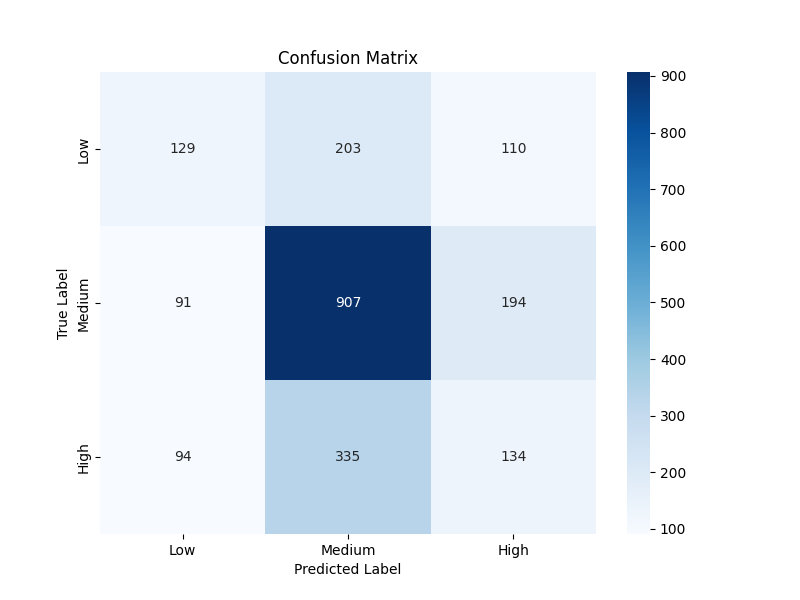
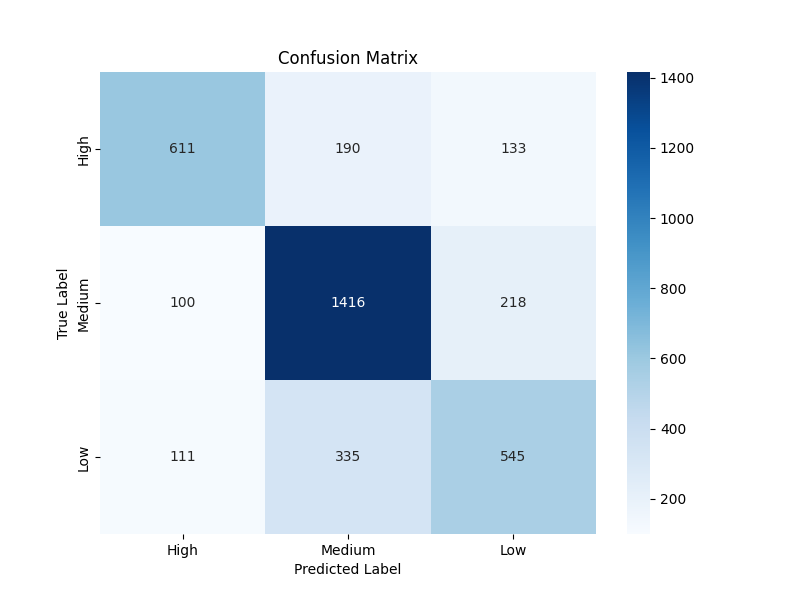
Fixed the model performance by using the raw csv for model training instead of processed

diff --git a/Main.py b/Main.py
@@ -23,13 +23,15 @@ import DecisionTree # TODO WHY IMPORT NOT WORKING
 
 #----------------------------------------------------------------------------------------------------------------------------------------
 
-df = pd.read_csv('Dataset/cox-violent-parsed_filt_processed.csv')
+#df = pd.read_csv('Dataset/cox-violent-parsed_filt_processed.csv')
+df = pd.read_csv('Dataset/cox-violent-parsed_filt.csv')
 df = df.dropna(subset=["score_text"])
 
 
 relevant = ["sex","age","race","juv_fel_count","juv_misd_count","juv_other_count",
             "c_charge_degree","r_charge_degree","r_days_from_arrest",
            "is_recid","vr_charge_degree","event"]
+
 
 #  "is_violent_recid",
 
@@ -43,8 +45,9 @@ class_names = ["0", "1", "2"]
 
 y = df[target]
 df.drop(target, axis=1, inplace=True)
-processor_simplified = DataProcessor.DataProcessor(df, y, relevant, normalizer_enabled=False, encoder_enabled=True, imputer_enabled=True)
-(X_train, X_test, y_train, y_test) = processor_simplified.process_data()
+#processor_processed = DataProcessor.DataProcessor(df, y, relevant, normalizer_enabled=False, encoder_enabled=True, imputer_enabled=True)
+processor_raw = DataProcessor.DataProcessor(df, y, relevant, normalizer_enabled=True, encoder_enabled=True, imputer_enabled=True)
+(X_train, X_test, y_train, y_test) = processor_raw.process_data()
 
 #----------------------------------------------------------------------------------------------------------------------------------------
 

diff --git a/Classification Models/DecisionTree.py b/Classification Models/DecisionTree.py
@@ -27,7 +27,7 @@ class DecisionTreeTrainer(Classification_models.ClassificationModels):
         modelName = 'DecisionTreeClassifier'
         super().__init__(X_train, y_train, X_test, y_test, modelName, model_path, evaluation_results)
 
-        self.model = DecisionTreeClassifier(max_depth=10, random_state=42)
+        self.model = DecisionTreeClassifier(max_depth=30, random_state=42)
     
     def train_decision_tree(self):
         """
